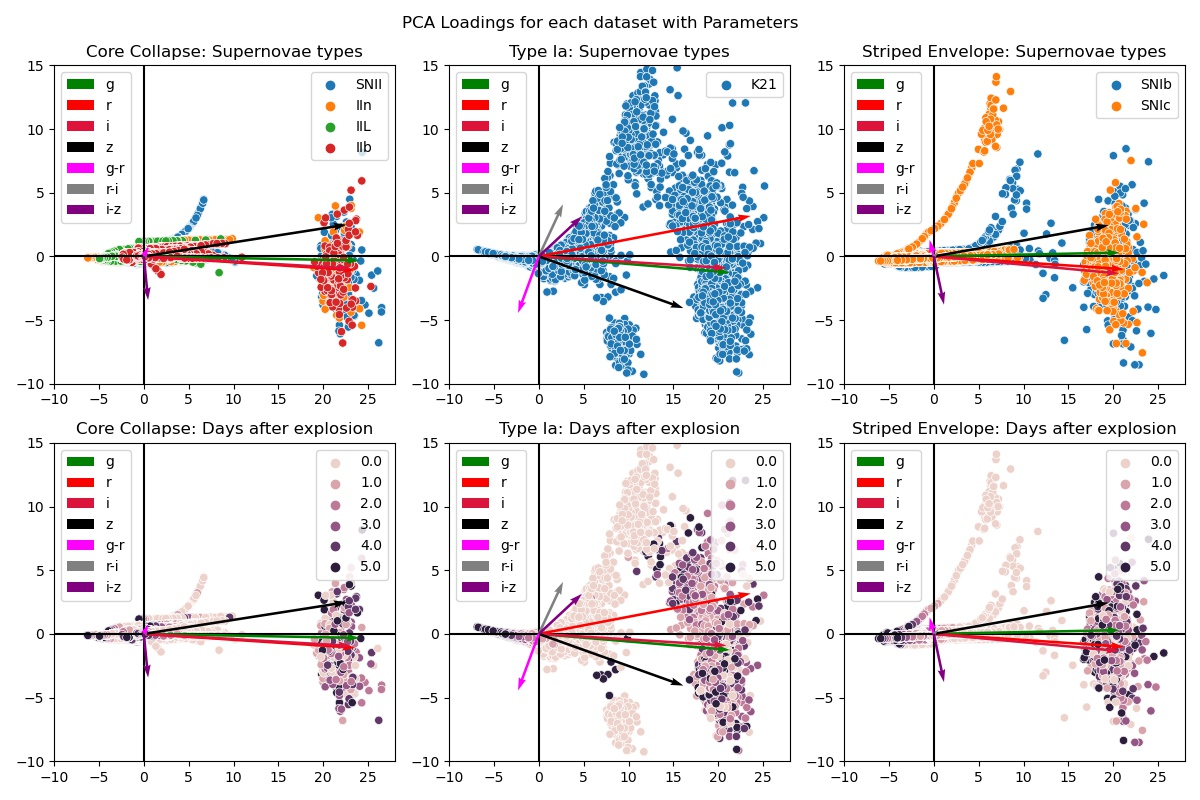
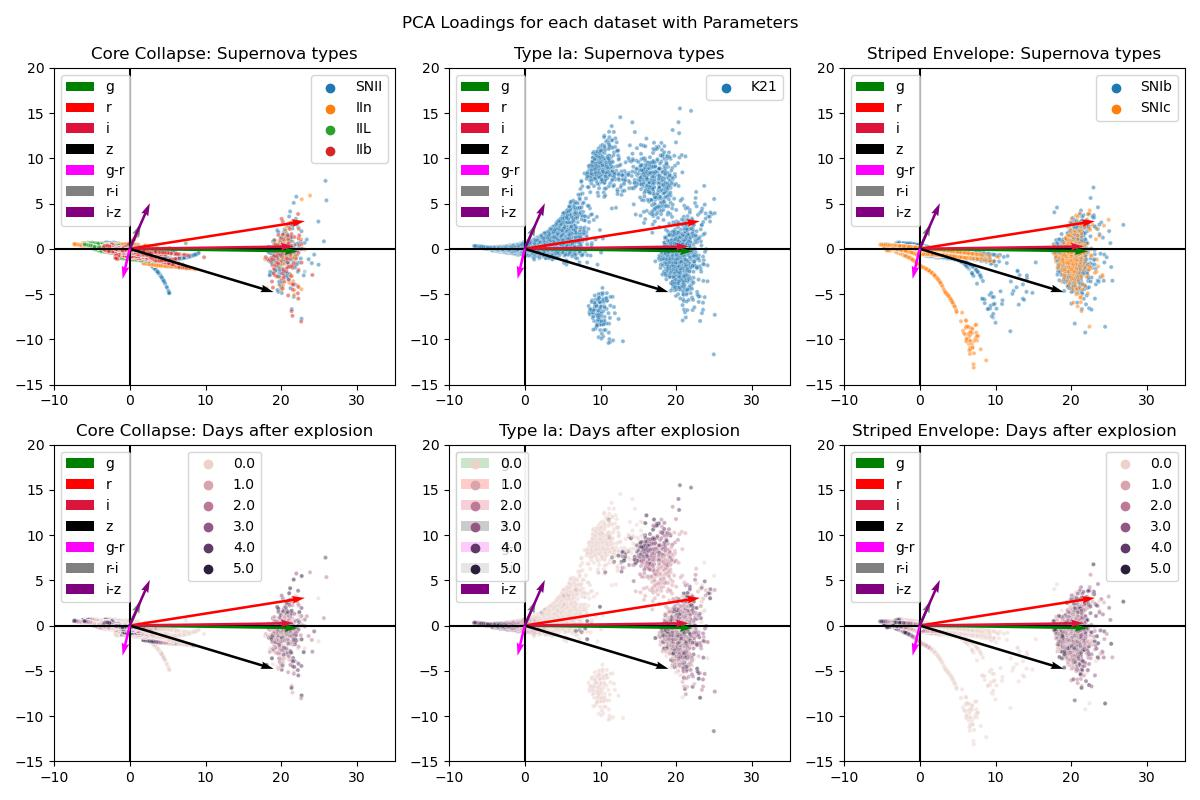
New files added to Simulated Datasets

diff --git a/SimulatedDatasets/PCA Loadings/PCALoadings.py b/SimulatedDatasets/PCA Loadings/PCALoadings.py
@@ -3,8 +3,38 @@ import numpy as np
 import pandas as pd
 from sklearn.decomposition import PCA
 import seaborn as sns
+from imblearn.over_sampling import SVMSMOTE
+
+def Phasecut(df, n):
+    df["before" + str(n) + "Days"] = [1 if row[1][0] < n else 0 for row in df.iterrows()]
+
+def Resampler(X, y):
+    svm = SVMSMOTE(sampling_strategy=1.0, random_state=42)
+    X_resampled, y_resampled = svm.fit_resample(X, y.astype('int'))
+    return X_resampled, y_resampled
+
+def PCAFitAndLoadings(X, y):
+    pca = PCA(n_components=2)
+    dataset = pca.fit_transform(X)
+    loadings = pca.components_.T * np.sqrt(pca.explained_variance_)
+
+    return dataset, y, loadings
+
+def PCAFitAndLoadingwithResampling(X, y):
+    pca = PCA(n_components=2)
+
+    X_resampled, y_resampled = Resampler(X, y)
+    dataset = pca.fit_transform(X_resampled)
+    loadings = pca.components_.T * np.sqrt(pca.explained_variance_)
+
+    return dataset, y_resampled, loadings
+
 
 def PCALoadingsPlotter(df, title, scaling, i):
+    titles = ["Core Collapse", "Type Ia", "Striped Envelope"]
+    scalings1 = [3, 5, 4.5]
+
+    fig, ax = plt.subplots(nrows=1, ncols=3, figsize=(12, 6))
     pca = PCA(n_components=2)
     dataset = pca.fit_transform(df.to_numpy()[:, 1:8])
 
@@ -25,69 +55,114 @@ def PCALoadingsPlotter(df, title, scaling, i):
     ax[i].legend(loc='best')
     ax[i].set_title(title)
 
-def PCALoadingswithParametersPlot(df):
-    pca = PCA(n_components=2)
-    dataset = pca.fit_transform(df.to_numpy()[:, 1:8])
+    plt.tight_layout()
+    plt.savefig("PCA Loadings for each dataset")
+    plt.show()
 
-    data = pca.components_.T * np.sqrt(pca.explained_variance_)
-    labels = ['g', 'r', 'i', 'z', 'g-r', 'r-i', 'i-z']
-    colors = ['green', 'red', 'crimson', 'black', 'magenta', 'gray', 'purple']
+def PCALoadingswithParametersPlot(df):
+    
+    dataset, hue, loadings = PCAFitAndLoadings(df.to_numpy()[:, 1:8], df.to_numpy()[:, 8])
 
     figure, axes = plt.subplots(nrows=1, ncols=2, figsize=(10, 6))
 
-    sns.scatterplot(data=dataset, x=dataset[:, 0], y=dataset[:, 1], hue=df.to_numpy()[:, 8], ax=axes[0])
-    axes[0].set_title("Supernovae types")
-
-    sns.scatterplot(data=dataset, x=dataset[:, 0], y=dataset[:, 1], hue=df.to_numpy()[:, 0], ax=axes[1])
-    axes[1].set_title("Days after explosion")
-
-    origin = [0, 0]
-    vectors = []
-
-    for i in range(2):
-        for j in range(7):
-            vec = axes[i].quiver(*origin, data[j, 0], data[j, 1], color=colors[j], scale=5, zorder=100)
-            vectors.append(vec)
-        legend = axes[i].legend(vectors, labels, loc='upper left')
-        axes[i].add_artist(legend)
-        axes[i].set_xlim(-10, 35)
-        axes[i].set_ylim(-15, 20)
-        axes[i].axhline(0, color='black')
-        axes[i].axvline(0, color='black')
-        axes[i].legend(loc='best')
+    PCALoadingsBeforeAfterEachPlot(dataset, df.to_numpy()[:, 8], loadings, axes[0], "Supernovae Tyes")
+    PCALoadingsBeforeAfterEachPlot(dataset, df.to_numpy()[:, 0], loadings, axes[1], "Days after explosion")
 
     plt.suptitle("PCA Loadings with Parameters")
-    plt.savefig("PCA Loadings with Parameters.jpg")
+    plt.savefig("PCA Loadings with Parameters")
     plt.show()
 
-def PCALoadingWithParametersForEachDataset(dataframe, title, k, scaling):
-    pca = PCA(n_components=2)
-    dataset = pca.fit_transform(dataframe.to_numpy()[:, 1:8])
-    data = pca.components_.T * np.sqrt(pca.explained_variance_)
-
+def PCALoadingsBeforeAfterEachPlot(dataframe, dataset, hue, loadings, axes, title):
     labels = ['g', 'r', 'i', 'z', 'g-r', 'r-i', 'i-z']
     colors = ['green', 'red', 'crimson', 'black', 'magenta', 'gray', 'purple']
 
-    sns.scatterplot(data=dataset, x=dataset[:, 0], y=dataset[:, 1], hue=dataframe.to_numpy()[:, 8], ax=axes[0][k])
-    axes[0][k].set_title(title + ": Supernovae types")
-
-    sns.scatterplot(data=dataset, x=dataset[:, 0], y=dataset[:, 1], hue=dataframe.to_numpy()[:, 0], ax=axes[1][k])
-    axes[1][k].set_title(title + ": Days after explosion")
+    #groups = dataframe.groupby(hue)
+    #for name, group in groups:
+    #    axes.plot(group.x, group.y, marker='.', alpha=0.3, label=name)
+    sns.scatterplot(data=dataset, x=dataset[:, 0], y=dataset[:, 1], hue=hue, ax=axes
+                    , marker='.', alpha=0.3)
+    axes.set_title(title)
 
     origin = [0, 0]
     vectors = []
+    print(loadings)
+    for j in range(7):
+        vec = axes.quiver(*origin, loadings[j, 0], loadings[j, 1], color=colors[j], scale=5, zorder=100)
+        vectors.append(vec)
+    legend = axes.legend(vectors, labels, loc='upper left')
+    axes.add_artist(legend)
+    axes.set_xlim(-10, 35)
+    axes.set_ylim(-15, 20)
+    axes.axhline(0, color='black')
+    axes.axvline(0, color='black')
+    axes.legend(loc='best')
 
-    for i in range(2):
-        for j in range(7):
-            vec = axes[i][k].quiver(*origin, data[j, 0], data[j, 1], color=colors[j], scale=scaling, zorder=100)
-            vectors.append(vec)
-        legend = axes[i][k].legend(vectors, labels, loc='upper left')
-        axes[i][k].add_artist(legend)
-        axes[i][k].set_xlim(-10, 28)
-        axes[i][k].set_ylim(-10, 15)
-        axes[i][k].axhline(0, color='black')
-        axes[i][k].axvline(0, color='black')
-        axes[i][k].legend(loc='upper right')
+def PCALoadingsBeforeAfterPlots(df, title, day0):
+    dataset2, hue2, loadings2, = PCAFitAndLoadingwithResampling(df.to_numpy()[:, 1:8], df.to_numpy()[:, 9])
+
+    if day0:
+        dataset3, hue3, loadings3, = PCAFitAndLoadings(df.to_numpy()[:, 1:8], df.to_numpy()[:, 10])
+    else:
+        dataset3, hue3, loadings3, = PCAFitAndLoadingwithResampling(df.to_numpy()[:, 1:8], df.to_numpy()[:, 10])
+
+    figure, axes = plt.subplots(nrows=1, ncols=2, figsize=(10, 6))
+
+    PCALoadingsBeforeAfterEachPlot(dataset2, hue2, loadings2, axes[0], "Before/After 2 Days")
+    PCALoadingsBeforeAfterEachPlot(dataset3, hue3, loadings3, axes[1], "Before/After 3 Days")
+
+    plt.suptitle(title)
+    plt.savefig(title + ".jpg")
+    plt.show()
+
+def PCALoadingWithParametersForEachDataset(dataframe):
+
+    dataset, hue, loadings = PCAFitAndLoadings(dataframe.to_numpy()[:, 1:8], dataframe.to_numpy()[:, 8])
+
+    figure, axes = plt.subplots(nrows=2, ncols=3, figsize=(12, 8))
+
+    index = [0, new_df1.shape[0], new_df1.shape[0] + new_df2.shape[0], dataframe.shape[0]]
+    title = ["Core Collapse", "Type Ia", "Striped Envelope"]
+
+
+    for k in range(3):
+        PCALoadingsBeforeAfterEachPlot(dataset[index[k]:index[k + 1]], dataframe.to_numpy()[index[k]:index[k+1], 8],
+                                       loadings, axes[0][k], title[k] + ": Supernova types")
+
+        PCALoadingsBeforeAfterEachPlot(dataset[index[k]:index[k + 1], :], dataframe.to_numpy()[index[k]:index[k+1], 0],
+                                       loadings, axes[1][k], title[k] + ": Days after explosion")
+
+    plt.suptitle("PCA Loadings for each dataset with Parameters")
+    plt.tight_layout()
+    plt.savefig("PCA Loadings for each dataset with Parameters")
+    plt.show()
+
+
+def PCALoadingBeforeAfterNDaysForEachDataset(dataframe, figtitle, day0):
+    dataset2, hue2, loadings2, = PCAFitAndLoadingwithResampling(dataframe.to_numpy()[:, 1:8], dataframe.to_numpy()[:, 9])
+
+    if day0:
+        dataset3, hue3, loadings3, = PCAFitAndLoadings(dataframe.to_numpy()[:, 1:8], dataframe.to_numpy()[:, 10])
+    else:
+        dataset3, hue3, loadings3, = PCAFitAndLoadingwithResampling(dataframe.to_numpy()[:, 1:8], dataframe.to_numpy()[:, 10])
+
+    figure, axes = plt.subplots(nrows=2, ncols=3, figsize=(12, 8))
+    index = [0, new_df1.shape[0], new_df1.shape[0] + new_df2.shape[0], dataframe.shape[0]]
+    title = ["Core Collapse", "Type Ia", "Striped Envelope"]
+
+    for k in range(3):
+        PCALoadingsBeforeAfterEachPlot(dataframe[index[k]:index[k+1]], dataset2[index[k]:index[k+1]],
+                                       hue2[index[k]:index[k+1]], loadings2, axes[0][k],
+                                       title[k] + ": Before/After 2 days")
+
+        PCALoadingsBeforeAfterEachPlot(dataframe[index[k]:index[k+1]], dataset3[index[k]:index[k+1], :],
+                                       hue3[index[k]:index[k+1]], loadings3, axes[1][k],
+                                       title[k] + ": Before/After 2 days")
+
+
+    plt.suptitle(figtitle)
+    plt.tight_layout()
+    plt.savefig(figtitle + ".jpg")
+    plt.show()
 
 
 new_df1 = pd.read_csv("/Users/athish/Coding/YSEProject/LCs_CC_modified.csv", index_col=0)
@@ -95,28 +170,35 @@ new_df2 = pd.read_csv("/Users/athish/Coding/YSEProject/LCs_Ia_modified.csv", ind
 new_df3 = pd.read_csv("/Users/athish/Coding/YSEProject/LCs_SESNe_modified.csv", index_col=0)
 
 dataframes = [new_df1, new_df2, new_df3]
-titles = ["Core Collapse", "Type Ia", "Striped Envelope"]
-scalings1 = [3, 5, 4.5]
-
-fig, ax = plt.subplots(nrows=1, ncols=3, figsize=(12, 6))
+final_df = pd.concat([new_df1, new_df2, new_df3])
+"""
 
 for i in range(len(dataframes)):
     PCALoadingsPlotter(dataframes[i], titles[i], scalings1[i], i)
 
-plt.tight_layout()
-plt.savefig("PCA Loadings for each dataset")
-plt.show()
 
-final_df = pd.concat([new_df1, new_df2, new_df3])
 PCALoadingswithParametersPlot(final_df)
+"""
 
-figure, axes = plt.subplots(nrows=2, ncols=3, figsize=(12, 8))
-scalings2 = [3, 5, 4.5]
+#PCALoadingWithParametersForEachDataset(final_df)
 
-for i in range(3):
-    PCALoadingWithParametersForEachDataset(dataframes[i], titles[i], i, scalings2[i])
 
-plt.suptitle("PCA Loadings for each dataset with Parameters")
-plt.tight_layout()
-plt.savefig("PCA Loadings for each dataset with Parameters.jpg")
-plt.show()
+for df in dataframes:
+    Phasecut(df, 2)
+    Phasecut(df, 3)
+
+final_df_2 = pd.concat([new_df1, new_df2, new_df3])
+print(final_df_2)
+print(final_df_2.to_numpy()[:, 8])
+PCALoadingsBeforeAfterPlots(final_df_2, "PCA Loadings before & after n days", True)
+
+#PCALoadingBeforeAfterNDaysForEachDataset(final_df_2, "PCA Loadings before & after n days for each dataset", True)
+
+new_df1 = new_df1.drop(np.arange(0, new_df1.shape[0], 6))
+new_df2 = new_df2.drop(np.arange(0, new_df2.shape[0], 6))
+new_df3 = new_df3.drop(np.arange(0, new_df3.shape[0], 6))
+final_df_3 = pd.concat([new_df1, new_df2, new_df3])
+
+#PCALoadingsBeforeAfterPlots(final_df_3, "PCA Loadings before & after n days without day 0 data", False)
+
+#PCALoadingBeforeAfterNDaysForEachDataset(final_df_3, "PCA Loadings before & after n days for each dataset without day 0 data", False)

diff --git a/SimulatedDatasets/Dimensionality Reduction/DimensionalityReductionWithParameters.py b/SimulatedDatasets/Dimensionality Reduction/DimensionalityReductionWithParameters.py
@@ -4,6 +4,7 @@ import matplotlib.pyplot as plt
 import umap
 from sklearn.manifold import TSNE
 import seaborn as sns
+import pickle
 
 new_df1 = pd.read_csv("/Users/athish/Coding/YSEProject/LCs_CC_modified.csv", index_col=0)
 new_df2 = pd.read_csv("/Users/athish/Coding/YSEProject/LCs_Ia_modified.csv", index_col=0)
@@ -11,20 +12,24 @@ new_df3 = pd.read_csv("/Users/athish/Coding/YSEProject/LCs_SESNe_modified.csv", 
 
 
 def tsne_embedder(data, perplexity, rate):
-    method = TSNE(n_components=2, learning_rate=rate, perplexity=perplexity)
+    method = TSNE(n_components=2, learning_rate=rate, perplexity=perplexity, random_state=42)
     X = data[:, 1:8].astype('float')
     label = data[:, 0].astype('float')
     X_embedded = method.fit_transform(X)
     X_embedded = np.append(label.reshape((np.shape(data)[0], 1)), X_embedded, axis=1)
+    pickle.dump(method, open("TSNE_perplexity=" + str(perplexity) + "_learning_rate=" + str(rate), 'wb'))
+    print("TSNE_perplexity=" + str(perplexity) + "_learning_rate=" + str(rate) + " done")
     return X_embedded
 
 
 def umap_embedder(data,n_neighbours, min_dist):
-    method = umap.UMAP(n_neighbors=n_neighbours, min_dist=min_dist)
+    method = umap.UMAP(n_neighbors=n_neighbours, min_dist=min_dist, random_state=42)
     X = data[:, 1:8].astype('float')
     label = data[:, 0].astype('float')
     X_embedded = method.fit_transform(X)
     X_embedded = np.append(label.reshape((np.shape(data)[0], 1)), X_embedded, axis=1)
+    pickle.dump(method, open("UMAP_n_neighbours=" + str(n_neighbours) + "_min_dist=" + str(min_dist), 'wb'))
+    print("UMAP_n_neighbours=" + str(n_neighbours) + "_min_dist=" + str(min_dist) + " done")
     return X_embedded
 
 
@@ -47,6 +52,7 @@ def umap_and_tsne_plotter(new_df, title):
 
     plt.suptitle("TSNE on " + title + " dataset with Learning Rate variation")
     plt.savefig("TSNE on " + title + " dataset with Learning Rate variation.jpg")
+    print("TSNE on " + title + " dataset with Learning Rate variation done")
 
     fig, ax = plt.subplots(ncols=3, nrows=2, figsize=(12, 10))
     for i in range(2):
@@ -58,6 +64,7 @@ def umap_and_tsne_plotter(new_df, title):
             ax[i][j].set_title("Perplexity: {}".format(perplexities[(3*i) + j]))
     plt.suptitle("TSNE on " + title + " dataset with Perplexity variation")
     plt.savefig("TSNE on " + title + " dataset with Perplexity variation.jpg")
+    print("TSNE on " + title + " dataset with Perplexity variation done")
 
     fig, ax = plt.subplots(ncols=3, nrows=2, figsize=(12, 10))
     for i in range(2):
